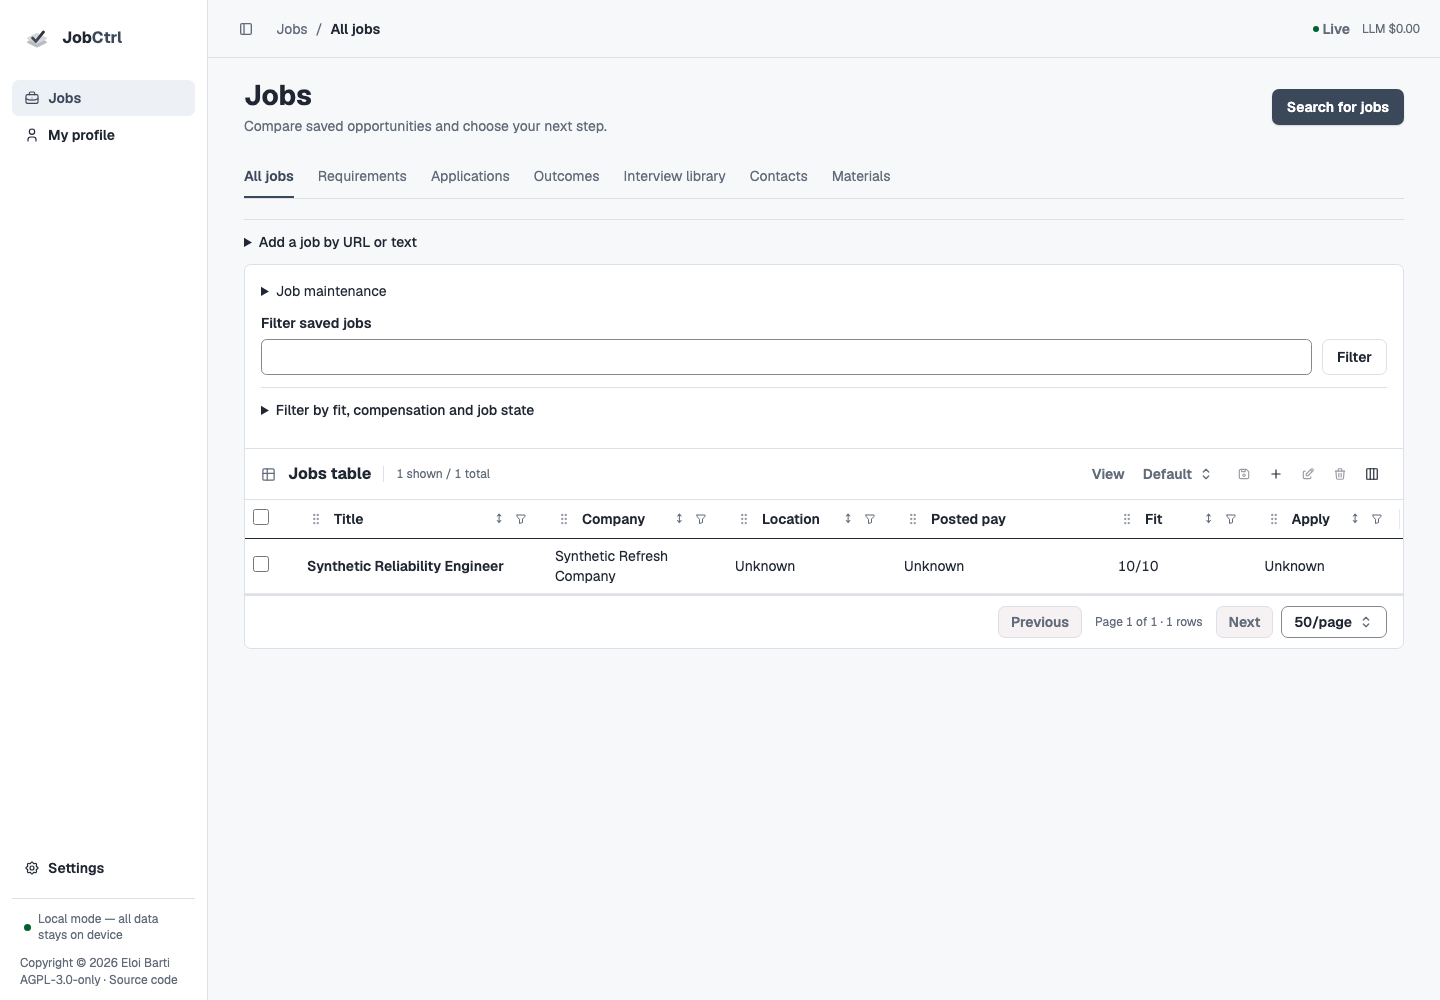
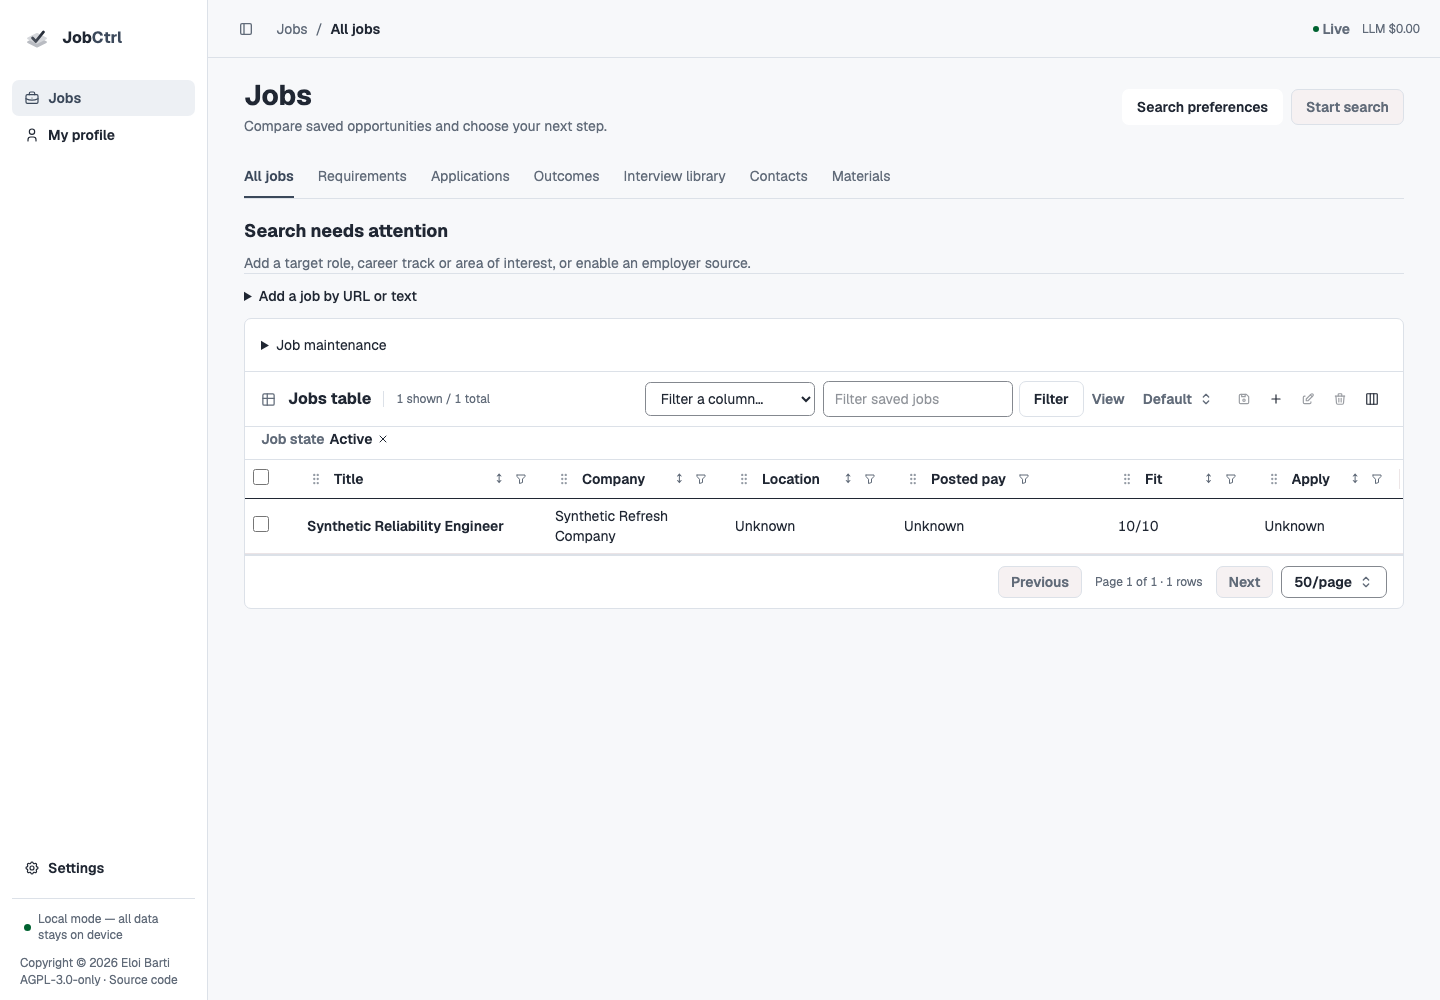
docs: refresh workspace tour and final QA evidence

diff --git a/docs/developer/qa/python-journeys.md b/docs/developer/qa/python-journeys.md
@@ -46,11 +46,100 @@ traces and reports and excludes databases, native HOME and provider state.
 
 ## Coverage ledger
 
-The current source inventory is **60 journeys in 25 spec files**: the earlier
-57 plus three direct-Jobs search journeys. They exercise saved launch and live
+The current source inventory is **65 journeys in 26 spec files**: the earlier
+57 plus three direct-Jobs search journeys and five provider-isolation/recovery
+journeys. The direct-Jobs cases exercise saved launch and live
 counts across navigation/reload/tabs, lost-acknowledgement recovery and exact-run
 stop, and simultaneous two-tab admission. Historical complete-suite results
 below retain their original 57-case scope; they do not qualify the new inventory.
+
+### Final QA corrections — 12 November 2026
+
+This follow-up to the Original redesign addresses the reported disabled search,
+duplicated Jobs filters and overcomplicated achievement cards. Valid Remote and
+posting-age preferences now reach isolated board requests; source restrictions
+and failures are recorded per source without disabling compatible acquisition.
+Jobs uses column-owned criteria with one active-filter summary. Achievements
+lead with saved/current wording and Edit wording, with factual editing, coaching,
+ordering, removal and audit history available through named secondary controls.
+
+The new [provider journeys](../../../apps/web/e2e/journeys/discovery-provider-scopes.spec.ts)
+run the installed JobStreaming 0.0.5 request/parser/checkpoint implementation
+against an owned loopback transport. They retain real Temporal, Python HTTP,
+repositories, SQLite receipts and worker processes. The ATS cases drive the
+public extension pairing, claim, task, DNS and result protocol; they do not
+replace the registered adapter or claim execution by an actual Chrome extension.
+
+| Added journey | Observed boundary |
+| --- | --- |
+| Remote posting age and isolated failures | Indeed retains Remote while its incompatible acquisition age parameter is omitted. Local admission honors the exact saved 73-hour cutoff and recorded date precision. Old, unknown, ambiguous and future dates are excluded with receipts. ZipRecruiter's actual missing-auth refusal and Glassdoor's unsupported scope remain attributed to their boards in both selected orders. All-failed differs from an empty completed source plus a failed source. |
+| Committed cursor recovery and cancellation | Wait for the actual persisted SDK cursor and three explicit acknowledgements, including one accepted and two filtered receipts, then crash the worker. The replacement resumes that cursor under the same run and cutoff reference, preserves unique accepted jobs and refuses jobs delivered after settled cancellation. |
+| Board failure after full capacity | A prior board failure survives worker loss after Indeed fills the shared new-job limit. Recovery makes no additional provider request and retains a partial result. |
+| Completed ATS plus failed board | An actual registered ATS completes through the public extension protocol and fills capacity; another acquisition remains interrupted. After worker loss, canonical completed/budget-exhausted units and the failed board produce partial rather than failed. |
+| Failed ATS plus completed board | A registered ATS records `request_failed` before Indeed fills capacity. Recovery retains the exact source ID/code, accepted job and partial result, making no additional external call. |
+
+The existing Jobs journey additionally exercises column bounds/availability,
+hidden-column access, simultaneous canonical and literal predicates, atomic
+clear, saved views, exact timestamp preservation, return selection/scroll and
+mobile filter geometry. The Profile journey exercises compact desktop/mobile
+cards, factual editing, wording proposals, the immediate reload/recovery race,
+exact approvals, history and full-width textarea geometry. The offline demo
+retains actual editing and its accepted PDF flow through the renamed controls.
+
+Observed source runs, with **one worker and zero retries** throughout:
+
+| Run | Result | Build / journeys / total (ms) | Scope |
+| --- | --- | --- | --- |
+| `e2e-QM8ccy` | 14 passed / 3 failed | 9,211 / 262,484 / 273,073 | Initial 17 affected cases, including the 26-surface/four-width matrix and 104 captures. Failures were SDK recovery observation timing, a viewport changed before a retained-scroll assertion, and old demo control names. |
+| `e2e-0BaV1j` | 3/3 passed | 8,513 / 67,808 / 77,601 | Jobs, Profile and offline demo after viewport/name repairs and the inspected wording textarea CSS repair. |
+| `e2e-SEp88O` | 3 passed / 3 failed | 7,802 / 109,006 / 118,163 | Remote-age/failure isolation, capacity recovery and generic Discovery passed. Cursor recovery crashed before the checkpoint commit; the two new ATS journeys incorrectly read raw source arrays from an aggregate telemetry response. |
+| `e2e-fzI11x` | 3/3 passed | 7,581 / 125,357 / 134,217 | Corrected committed-cursor/cancellation and both registered-source restart journeys. |
+
+There are **19 distinct affected journeys with passing observations** across
+these runs. This does not claim a single full 65-case pass. No skipped, flaky or
+retried cases occurred. The failed attempts remain failures in this record.
+The ordinary 90-second case, 150-second demo and 720-second global limits remain.
+The explicit post-crash observation now permits 45 seconds, matching the existing
+terminal observer and allowing the real 30-second heartbeat expiry; no production
+timeout changed. The corrected cursor test waits for committed checkpoint state
+through a bounded, read-only observer restricted to its owned synthetic workspace.
+It does not infer acknowledgement from the next outbound request. ATS barriers
+use the existing public aggregate telemetry and exact source-registry fields.
+
+Image inspection found an actual inherited CSS defect after the initial passing
+Profile assertions: a legacy textarea grid area pushed the wording editor into
+half its container. The owning Profile style now resets that grid placement.
+The final 1440/390 captures and geometry assertions passed. Filter screenshots
+disable transition animations so they show the settled dialog. Public guide
+images contain only owned synthetic state; private local-QA data is excluded.
+
+| Final recorded boundary | SHA-256 |
+| --- | --- |
[3 lines of base64/hex data omitted]
+
+The final two provider runs have identical Python code; only the feature README
+changed their package hashes (`e2e-SEp88O` was
[1 lines of base64/hex data omitted]
+Locks and built assets remained unchanged within each run. The runner was macOS
+arm64, 12 CPUs, Node 26.13.0. Web type checking and boundary lint, Python Ruff and
+whitespace checks passed. Independent review closed the canonical failure/
+fulfilled-unit recovery defects and the browser GET/header serialization repair.
+Independent process/listener readback found no remaining owned-run process,
+recorded initial worker or API listener across all four runs: 58 recorded
+worker/API process IDs and 31 API ports were checked. Five failed synthetic
+workspaces remain for diagnosis; successful workspaces were removed. The local
+interactive QA app is separately owned and remains running.
+The documentation build resolved 16,175 references across 476 emitted files.
+The first rendered-docs attempt lost its preview connection after a concurrent
+documentation rebuild replaced that preview's output. That attempt is invalid
+as complete qualification; the final check is run against a fresh preview after
+the build finishes, with no concurrent output changes.
+These checks do not establish live Indeed availability, successful live
+Glassdoor/ZipRecruiter authentication, semantic model accuracy, participant
+usability, installed-release qualification or deployment. Hosted whole-head
+qualification remains a separate delivery gate.
 
 ### Direct Jobs search and inline progress — 11 November 2026
 

diff --git a/docs/user/product-tour.md b/docs/user/product-tour.md
@@ -21,7 +21,7 @@ do not establish a release or hosted deployment. Follow the
 
 ## Jobs: Compare And Act
 
-![Original Jobs comparison table with recorded pay, fit, application state and explicit unknowns](../assets/screenshots/original-jobs.png)
+![Original Jobs comparison table with recorded fit, column filters and explicit unknowns](../assets/screenshots/original-jobs.png)
 
 *Owned synthetic source workspace. Detailed columns and cross-job resources stay
 reachable around the main comparison table.*
@@ -37,12 +37,19 @@ pay, Fit and Apply, plus selection. Detailed/source columns remain optional
 choices, and custom persisted layouts are retained. Posted pay uses its recorded
 range, currency and unit rather than an invented comparable number.
 
-**Search for jobs** opens the search task; **Filter saved jobs** searches only
-existing records. The search task shows saved criteria, source/limit scope,
-readiness, explicit **Start search**, progress and recovery. **Edit search
-preferences** and connection remedies return to that task. Opening or saving it
-does not launch work. **Import job** and manual capture remain available for
+**Start search** launches the saved search directly from Jobs, with progress,
+counts and recovery beside the table. **Search preferences** edits its criteria
+and source limits. **Filter saved jobs** searches only existing records; column
+filters and the table's **Filter a column** control refine that same query, including
+criteria for hidden columns. Opening or saving preferences does not launch work.
+**Import job** and manual capture remain available for
 known postings.
+
+![A single column filter dialog with known market pay and annual bounds](../assets/screenshots/jobs-column-filter-desktop.png)
+
+*Owned synthetic workspace. The column dialog owns its range and availability
+criteria; active chips show the saved query. There is no second full-page filter
+form.*
 
 The Jobs workspace also reaches **Requirements**, **Applications**, **Outcomes**,
 **Interview library**, **Contacts** and **Materials** when their features are
@@ -119,6 +126,17 @@ inventory and secondary tools stay nearby. Add/edit/remove controls belong besid
 the record; **Restore removed experience** recovers retained roles or achievements without replacing newer
 Profile edits. Autosave, explicit saves, errors and revision conflicts remain
 visible. Profile edits do not regenerate documents or refresh matches.
+
+Each achievement leads with its saved or current wording and **Edit wording**.
+Requirement tags stay visible beside **Link requirement**. **Edit facts** opens
+the underlying authored record; **Achievement options** contains coaching,
+ordering and removal. **Approval and history** keeps exact source references and
+earlier revisions available without crowding the reading view.
+
+![Achievement wording editor with original text, draft comparison and explicit save](../assets/screenshots/achievement-wording-edit.png)
+
+*Owned synthetic achievement. Editing the wording creates a proposed revision;
+it preserves the reviewed wording and the underlying factual record.*
 
 ### Requirement-Led Wording
 

diff --git a/docs/plans/2026-11-11-original-app-redesign.md b/docs/plans/2026-11-11-original-app-redesign.md
@@ -298,3 +298,30 @@ matrix and offline demo. Earlier failures and the corrected cancellation race
 remain in the [QA ledger](../developer/qa/python-journeys.md#direct-jobs-search-and-inline-progress-11-november-2026).
 Full qualification of the new 60-case inventory belongs to the pushed PR checks;
 this does not imply merge, deployment or release.
+
+### Final-QA simplification and provider isolation — 12 November 2026
+
+The follow-up removes the duplicate full-page Jobs filters; each column now owns
+its criteria, including a picker for hidden columns and one active-filter summary.
+Achievement cards lead with their saved/current wording and Edit wording. Edit
+facts opens the factual source record; coaching, ordering and removal move to
+Achievement options, while exact provenance and revisions remain under Approval
+and history. The inherited wording textarea grid-placement defect is repaired
+and checked at desktop/mobile widths. No wording authority or accepted artifact
+is changed by these presentation repairs.
+
+Valid Remote and posting-age settings no longer block the whole search. Isolated
+board requests preserve saved criteria, enforce the original date cutoff from
+recorded metadata and retain safe source-specific failures. Canonical settlement
+preserves failures and fulfilled bounded work after restart, even when another
+source has filled the shared job budget. Browser ATS requests retain broker
+policy while omitting forbidden headers and GET bodies.
+
+The [owning QA record](../developer/qa/python-journeys.md#final-qa-corrections-12-november-2026)
+records 19 distinct affected journeys with passing observations, the earlier
+failed attempts, final source/build hashes and boundary limits. The current
+inventory is 65 cases; this follow-up does not assert a complete 65-case pass.
+Owning requirements, API/architecture references, Profile/Discovery/normal-flow
+guides, synthetic tour images and the offline demo are updated together.
+The local source app is available for continued product QA. Hosted whole-head
+qualification, merge, release and deployment remain separately reported.
